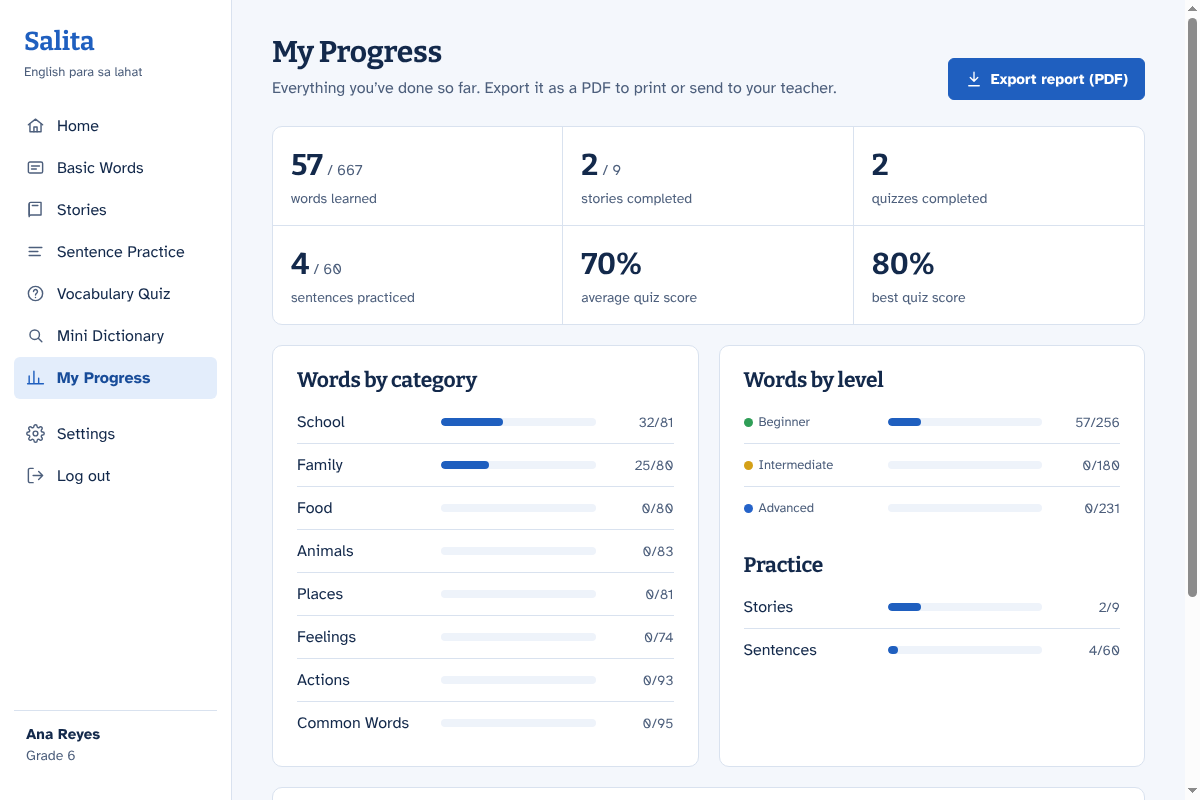
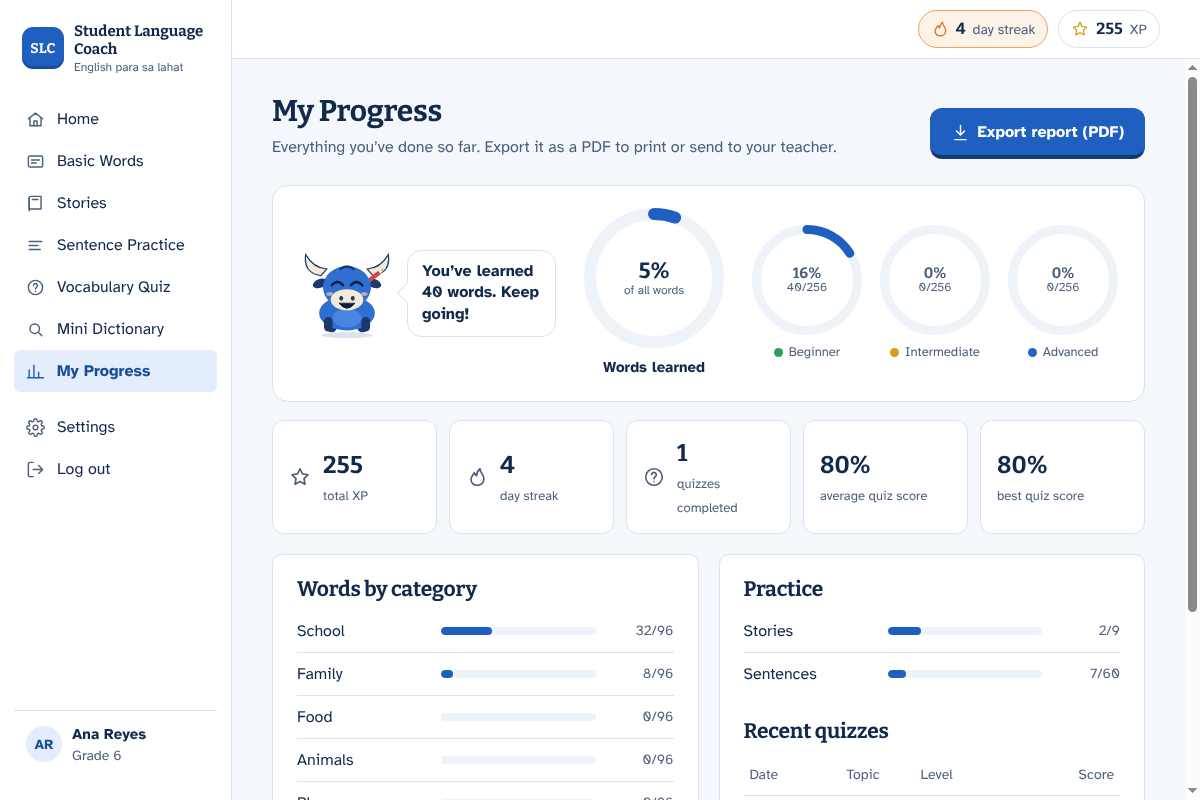
feat: download site with Bao, refreshed screenshots, README for the new name and features

diff --git a/site/style.css b/site/style.css
@@ -50,7 +50,7 @@ code { font-size: .92em; background: var(--surface-2); padding: 1px 6px; border-
 .swatches button[aria-checked="true"] { box-shadow: 0 0 0 2px var(--ink); }
 
 /* Hero */
-.hero { display: grid; grid-template-columns: 1.05fr 1fr; gap: 56px; align-items: center; padding-top: 56px; padding-bottom: 96px; }
+.hero { display: grid; grid-template-columns: 1.05fr 1fr; gap: 56px; align-items: center; padding-top: 56px; padding-bottom: 150px; }
 .hero h1 { font-size: clamp(40px, 5.4vw, 64px); font-weight: 700; max-width: 12ch; }
 .lede { font-size: 20px; color: var(--ink-soft); max-width: 46ch; margin: 22px 0 32px; }
 .cta { display: flex; flex-direction: column; align-items: flex-start; gap: 10px; }
@@ -127,3 +127,83 @@ code { font-size: .92em; background: var(--surface-2); padding: 1px 6px; border-
   .card { width: min(340px, 86%); }
   .feature-list { grid-template-columns: 1fr; }
 }
+
+/* Bao the carabao (same artwork as the app) */
+.bao { display: inline-block; flex: none; position: relative; }
+.bao-svg { width: 100%; height: 100%; overflow: visible; }
+.bao-shadow { fill: var(--line); }
+.bao-torso, .bao-skin { fill: #2f6fd1; }
+.leg-back, .arm, .ear ellipse, .nostril { fill: #1b3a6b; }
+.bao-belly { fill: #4a86df; }
+.horn { fill: #f3ead8; stroke: #1b3a6b; stroke-width: 2.5; }
+.muzzle { fill: #f3ead8; }
+.tuft { fill: none; stroke: #1b3a6b; stroke-width: 5; stroke-linecap: round; }
+.cheek { fill: #f2b7a8; opacity: .75; }
+.sclera { fill: #fff; stroke: #1b3a6b; stroke-width: 2.5; }
+.pupil circle { fill: #0c1f3d; } .pupil .glint { fill: #fff; }
+.brow { fill: none; stroke: #1b3a6b; stroke-width: 3; stroke-linecap: round; opacity: 0; }
+.eyes-happy path { fill: none; stroke: #0c1f3d; stroke-width: 5; stroke-linecap: round; }
+.mouth { fill: none; stroke: #0c1f3d; stroke-width: 3; stroke-linecap: round; }
+.m-grin { fill: #0c1f3d; stroke-width: 2; }
+.pencil rect { fill: #d64545; } .pencil-tip { fill: #f3ead8; } .pencil-lead { fill: #0c1f3d; }
+.x-q { font: 700 30px var(--font-display); fill: #2f6fd1; }
+.x-sweat { fill: #85b7eb; }
+.x-spark path { fill: #f3c74a; }
+
+/* parts that only some moods show */
+.eyes-happy, .m-grin, .m-hmm, .m-oops, .x-q, .x-sweat, .x-spark { opacity: 0; transition: opacity .18s; }
+.eyes-open, .m-smile { transition: opacity .18s; }
+.pupil, .bao-head, .arm, .ear, .bao-body { transition: transform .35s cubic-bezier(.34,1.56,.64,1); transform-box: fill-box; }
+.bao-head { transform-origin: 50% 85%; }
+.arm { transform-origin: 50% 10%; }
+.ear-l { transform-origin: 100% 50%; } .ear-r { transform-origin: 0% 50%; }
+
+/* idle: blink, breathe, ear flick */
+.bao .eye { transform-box: fill-box; transform-origin: center; animation: bao-blink 4.2s infinite; }
+.bao[data-mood="idle"] .bao-body { animation: bao-breathe 3.2s ease-in-out infinite; }
+.bao[data-mood="idle"] .ear-l { animation: bao-flick 5s ease-in-out infinite; }
+
+/* thinking: eyes up and to the side, head tilt, question mark */
+.bao[data-mood="thinking"] .pupil { transform: translate(3px, -3px); }
+.bao[data-mood="thinking"] .bao-head { transform: rotate(-7deg); }
+.bao[data-mood="thinking"] .m-smile { opacity: 0; } .bao[data-mood="thinking"] .m-hmm { opacity: 1; }
+.bao[data-mood="thinking"] .x-q { opacity: 1; animation: bao-float 1.6s ease-in-out infinite; }
+.bao[data-mood="thinking"] .brow-r { opacity: 1; }
+
+/* happy: closed-eye smile, a hop */
+.bao[data-mood="happy"] .eyes-open, .bao[data-mood="celebrate"] .eyes-open { opacity: 0; }
+.bao[data-mood="happy"] .eyes-happy, .bao[data-mood="celebrate"] .eyes-happy { opacity: 1; }
+.bao[data-mood="happy"] .m-smile, .bao[data-mood="celebrate"] .m-smile { opacity: 0; }
+.bao[data-mood="happy"] .m-grin, .bao[data-mood="celebrate"] .m-grin { opacity: 1; }
+.bao[data-mood="happy"] .bao-body { animation: bao-hop .55s cubic-bezier(.3,1.6,.5,1) 1; }
+
+/* oops: look down, ears droop, sweat drop */
+.bao[data-mood="oops"] .pupil { transform: translate(-2px, 3px); }
+.bao[data-mood="oops"] .m-smile { opacity: 0; } .bao[data-mood="oops"] .m-oops { opacity: 1; }
+.bao[data-mood="oops"] .x-sweat { opacity: 1; animation: bao-drip 1.4s ease-in 1; }
+.bao[data-mood="oops"] .ear-l { transform: rotate(-22deg); } .bao[data-mood="oops"] .ear-r { transform: rotate(22deg); }
+.bao[data-mood="oops"] .bao-head { animation: bao-shake .4s 1; }
+.bao[data-mood="oops"] .brow { opacity: 1; }
+
+/* celebrate: front legs up, sparkles, repeated hops */
+.bao[data-mood="celebrate"] .arm-l { transform: translate(-6px, -26px) rotate(150deg); }
+.bao[data-mood="celebrate"] .arm-r { transform: translate(6px, -26px) rotate(-150deg); }
+.bao[data-mood="celebrate"] .x-spark { opacity: 1; animation: bao-twinkle .9s ease-in-out infinite alternate; }
+.bao[data-mood="celebrate"] .bao-body { animation: bao-hop .8s cubic-bezier(.3,1.6,.5,1) 3; }
+
+@keyframes bao-blink { 0%, 94%, 100% { transform: scaleY(1); } 97% { transform: scaleY(.08); } }
+@keyframes bao-breathe { 50% { transform: translateY(-2px) scale(1.01); } }
+@keyframes bao-flick { 0%, 85%, 100% { transform: rotate(0); } 90% { transform: rotate(-16deg); } }
+@keyframes bao-hop { 0%, 100% { transform: translateY(0); } 40% { transform: translateY(-14px); } 70% { transform: translateY(0) scaleY(.96); } }
+@keyframes bao-float { 50% { transform: translateY(-4px); } }
+@keyframes bao-drip { from { transform: translateY(-6px); } to { transform: translateY(4px); } }
+@keyframes bao-shake { 25% { transform: rotate(4deg); } 75% { transform: rotate(-4deg); } }
+@keyframes bao-twinkle { from { transform: scale(.85); opacity: .7; } to { transform: scale(1.1); opacity: 1; } }
+
+
+.hero-bao { position: absolute; left: -30px; bottom: -110px; z-index: 4; display: flex; align-items: flex-end; gap: 4px; }
+.hero-bao .bao { width: 150px; height: 150px; }
+.hero-bao .bao-bubble { margin: 0 0 40px; background: var(--surface); border: 1.5px solid var(--line); border-radius: 14px; padding: 10px 14px; font-weight: 700; font-size: 15px; max-width: 190px; box-shadow: var(--shadow); }
+.bao-shadow { fill: var(--line); }
+@media (prefers-reduced-motion: reduce) { .bao * { animation: none !important; } }
+@media (max-width: 860px) { .hero-bao { position: relative; left: 0; bottom: 0; margin-top: 10px; } .deck { height: auto; min-height: 330px; } }

diff --git a/site/index.html b/site/index.html
@@ -45,6 +45,60 @@
       </div>
 
       <div class="deck" aria-label="Example word cards">
+        <div class="hero-bao">
+          <span class="bao" data-mood="idle" role="img" aria-label="Bao the carabao, the app's mascot"><svg viewBox="0 0 200 200" class="bao-svg" aria-hidden="true">
+  <ellipse class="bao-shadow" cx="100" cy="188" rx="54" ry="6"/>
+  <g class="bao-body">
+    <g class="bao-legs">
+      <rect class="leg-back" x="58" y="146" width="20" height="36" rx="9"/>
+      <rect class="leg-back" x="122" y="146" width="20" height="36" rx="9"/>
+    </g>
+    <ellipse class="bao-torso" cx="100" cy="142" rx="58" ry="36"/>
+    <ellipse class="bao-belly" cx="100" cy="152" rx="30" ry="20"/>
+    <g class="bao-arms">
+      <rect class="arm arm-l" x="52" y="150" width="18" height="30" rx="9"/>
+      <rect class="arm arm-r" x="130" y="150" width="18" height="30" rx="9"/>
+    </g>
+    <g class="bao-head">
+      <path class="horn" d="M46 64 Q8 58 14 20 Q30 48 58 50Z"/>
+      <path class="horn" d="M154 64 Q192 58 186 20 Q170 48 142 50Z"/>
+      <g class="ear ear-l"><ellipse cx="44" cy="80" rx="16" ry="9" transform="rotate(-20 44 80)"/></g>
+      <g class="ear ear-r"><ellipse cx="156" cy="80" rx="16" ry="9" transform="rotate(20 156 80)"/></g>
+      <g class="pencil" transform="rotate(-38 158 64)">
+        <rect x="130" y="60" width="40" height="9" rx="2"/><path class="pencil-tip" d="M170 60 L180 64.5 L170 69Z"/><path class="pencil-lead" d="M177 63 L180 64.5 L177 66Z"/>
+      </g>
+      <ellipse class="bao-skin" cx="100" cy="88" rx="50" ry="44"/>
+      <path class="tuft" d="M86 50 Q100 40 114 50"/>
+      <ellipse class="muzzle" cx="100" cy="114" rx="34" ry="22"/>
+      <ellipse class="nostril" cx="88" cy="111" rx="4" ry="5"/>
+      <ellipse class="nostril" cx="112" cy="111" rx="4" ry="5"/>
+      <ellipse class="cheek" cx="64" cy="102" rx="7" ry="4"/>
+      <ellipse class="cheek" cx="136" cy="102" rx="7" ry="4"/>
+      <g class="eyes-open">
+        <g class="eye"><circle class="sclera" cx="80" cy="80" r="12"/><g class="pupil"><circle cx="81" cy="81" r="7.5"/><circle class="glint" cx="84" cy="77" r="2.5"/></g></g>
+        <g class="eye"><circle class="sclera" cx="120" cy="80" r="12"/><g class="pupil"><circle cx="121" cy="81" r="7.5"/><circle class="glint" cx="124" cy="77" r="2.5"/></g></g>
+        <path class="brow brow-l" d="M68 64 Q80 58 90 64"/>
+        <path class="brow brow-r" d="M110 64 Q120 58 132 64"/>
+      </g>
+      <g class="eyes-happy">
+        <path d="M68 84 Q80 70 92 84"/><path d="M108 84 Q120 70 132 84"/>
+      </g>
+      <path class="mouth m-smile" d="M88 124 Q100 132 112 124"/>
+      <path class="mouth m-grin" d="M84 122 Q100 142 116 122 Z"/>
+      <path class="mouth m-hmm" d="M92 127 L108 125"/>
+      <path class="mouth m-oops" d="M89 130 Q100 122 111 130"/>
+    </g>
+    <text class="x-q" x="168" y="128">?</text>
+    <path class="x-sweat" d="M150 58 q7 11 0 16 q-7 -5 0 -16z"/>
+    <g class="x-spark">
+      <path d="M24 34 l4 9 9 4 -9 4 -4 9 -4 -9 -9 -4 9 -4z"/>
+      <path d="M176 116 l3 7 7 3 -7 3 -3 7 -3 -7 -7 -3 7 -3z"/>
+      <path d="M168 26 l2 5 5 2 -5 2 -2 5 -2 -5 -5 -2 5 -2z"/>
+    </g>
+  </g>
+</svg></span>
+          <p class="bao-bubble">Kumusta! I’m Bao, your study buddy.</p>
+        </div>
         <article class="card c3"><div class="row"><span class="word">grateful</span><span class="lvl advanced">Advanced</span></div>
           <div class="pron">GRAYT-ful</div><div class="fil">nagpapasalamat</div><div class="ex">We are grateful to the barangay volunteers.</div></article>
         <article class="card c2"><div class="row"><span class="word">borrow</span><span class="lvl intermediate">Intermediate</span></div>
@@ -58,13 +112,14 @@
       <h2>Everything a student needs to practice</h2>
       <p class="sub">Eight topics — School, Family, Food, Animals, Places, Feelings, Actions and Common Words — at three levels.</p>
       <dl class="feature-list">
-        <div><dt>Basic Words</dt><dd>Word cards with pronunciation, the Filipino meaning and an example sentence. Press Listen to hear the word.</dd></div>
+        <div><dt>Basic Words</dt><dd>Flip cards with pronunciation, the Filipino meaning and an example sentence. Study one at a time or browse them all.</dd></div>
         <div><dt>Stories</dt><dd>Short stories set in everyday Filipino life, each followed by three questions to check understanding.</dd></div>
-        <div><dt>Sentence Practice</dt><dd>Not just single words. Read simple sentences and pick the missing word, with the Filipino translation one click away.</dd></div>
-        <div><dt>Vocabulary Quiz</dt><dd>Ten questions like “What does <i>happy</i> mean?” with instant feedback and a score at the end.</dd></div>
+        <div><dt>Sentence Practice</dt><dd>Not just single words. Sets of ten simple sentences — pick the missing word and see the Filipino translation.</dd></div>
+        <div><dt>Vocabulary Quiz</dt><dd>Ten questions like “What does <i>happy</i> mean?” Pick, check, and see right away if you got it.</dd></div>
         <div><dt>Daily Word</dt><dd>A new English word on the home screen every day.</dd></div>
         <div><dt>Mini Dictionary</dt><dd>Search hundreds of common words in English or Filipino.</dd></div>
         <div><dt>Progress Tracker</dt><dd>Words learned, stories completed, quizzes taken and practice progress — all in one place.</dd></div>
+        <div><dt>Bao, XP and streaks</dt><dd>Bao the carabao cheers you on. Earn XP for every right answer and keep a daily streak going.</dd></div>
         <div><dt>Printable report</dt><dd>Save a one-page PDF of your progress to print or send to your teacher.</dd></div>
       </dl>
       <div class="levels">

diff --git a/site/config.js b/site/config.js
@@ -1,3 +1,3 @@
 // Change this to your GitHub "username/repository" after you upload the project.
-// Example: window.SALITA_REPO = 'juandelacruz/salita';
-window.SALITA_REPO = 'OWNER/salita';
+// Example: window.SALITA_REPO = 'juandelacruz/student-language-coach';
+window.SALITA_REPO = 'OWNER/student-language-coach';

diff --git a/README.md b/README.md
@@ -1,6 +1,6 @@
-# Salita
+# Student Language Coach
 
-**Learn English words, one card at a time.** Salita is a free, offline Windows app that helps Filipino students in Grades 4–10 learn English vocabulary.
+**Learn English words, one card at a time.** Student Language Coach is a free, offline Windows app that helps Filipino students in Grades 4–10 learn English vocabulary.
 
 - **Basic Words** — 768 word cards in 8 categories (School, Family, Food, Animals, Places, Feelings, Actions, Common Words) × 3 levels (Beginner, Intermediate, Advanced). Each card has the English word, a pronunciation guide, the Filipino meaning and an example sentence. A *Listen* button reads the word aloud.
 - **Stories** — 9 short stories (3 per level) with comprehension questions.
@@ -8,7 +8,10 @@
 - **Vocabulary Quiz** — 10 multiple-choice questions per round, scores saved.
 - **Daily Word**, **Mini Dictionary**, **Progress Tracker**, and a **printable PDF report**.
 - **Accounts on the computer** — username + password, several students per PC. No internet, no database server.
-- **Themes** — light or dark, in blue, red, green, purple or orange.
+- **Bao the carabao** — the mascot cheers students on and reacts to every answer.
+- **XP and daily streak** — +10 XP per correct quiz answer (+20 for a perfect quiz), +30 for finishing a story, +5 per sentence, +2 per word learned. Practising any day keeps the streak going.
+- **Game-like practice** — chunky answer buttons, Check, a feedback bar with the right answer, and a celebration after every quiz, story and sentence set. Keys 1–4 pick an answer, Enter checks.
+- **Themes** — light or dark, in blue, red, green, purple or orange. All animations switch off when Windows' "Show animations" setting is off.
 
 The project has two parts:
 
@@ -23,23 +26,23 @@ The project has two parts:
 
 You need a free GitHub account and Git installed. All of this is free.
 
-1. **Create the repository.** On github.com click **New repository**, name it `salita`, set it to **Public**, and don't add a README. Click **Create repository**.
-2. **Set your repo name in the website.** Open `site/config.js` and change `OWNER/salita` to your username, e.g. `juandelacruz/salita`.
+1. **Create the repository.** On github.com click **New repository**, name it `student-language-coach`, set it to **Public**, and don't add a README. Click **Create repository**.
+2. **Set your repo name in the website.** Open `site/config.js` and change `OWNER/student-language-coach` to your username, e.g. `juandelacruz/student-language-coach`.
 3. **Upload the code.** In a terminal, inside this folder:
    ```bash
    git branch -M main
-   git remote add origin https://github.com/YOUR-USERNAME/salita.git
+   git remote add origin https://github.com/YOUR-USERNAME/student-language-coach.git
    git add -A
    git commit -m "Set my repo name"
    git push -u origin main
    ```
-4. **Turn on the website.** On GitHub: **Settings → Pages → Build and deployment → Source: GitHub Actions**. Then go to the **Actions** tab, open **Deploy download page**, and click **Run workflow**. After a minute your site is live at `https://YOUR-USERNAME.github.io/salita/`.
+4. **Turn on the website.** On GitHub: **Settings → Pages → Build and deployment → Source: GitHub Actions**. Then go to the **Actions** tab, open **Deploy download page**, and click **Run workflow**. After a minute your site is live at `https://YOUR-USERNAME.github.io/student-language-coach/`.
 5. **Build the Windows installer.** Create a version tag and push it:
    ```bash
    git tag v1.0.0
    git push origin v1.0.0
    ```
-   The **Release Windows app** workflow builds `Salita-Setup.exe` on GitHub's Windows computers (about 5–10 minutes) and attaches it to a new Release. The website's **Download for Windows** button always points to the newest release.
+   The **Release Windows app** workflow builds `Student-Language-Coach-Setup.exe` on GitHub's Windows computers (about 5–10 minutes) and attaches it to a new Release. The website's **Download for Windows** button always points to the newest release.
 
 To release an update later: change the code, bump `"version"` in `package.json` (e.g. `1.0.1`), commit, push, then `git tag v1.0.1 && git push origin v1.0.1`.
 
@@ -50,23 +53,23 @@ To release an update later: change the code, bump `"version"` in `package.json` 
 ## Where student data is saved
 
 Everything is saved as small files on the student's computer, in
-`%APPDATA%\Salita\` (paste that into File Explorer's address bar):
+`%APPDATA%\Student Language Coach\` (paste that into File Explorer's address bar):
 
 | File | Contents |
 |---|---|
 | `users.json` | Accounts. Passwords are scrambled (scrypt hash), never stored as typed. |
-| `progress\<username>.json` | That student's learned words, stories, sentences, quiz scores and theme. |
+| `progress\<username>.json` | That student's learned words, stories, sentences, quiz scores, XP, active days (for the streak) and theme. |
 | `prefs.json` | Last used theme and username, for the login screen. |
 
-The folder is created automatically the first time Salita runs on a new computer, so there's nothing to set up. Uninstalling Salita keeps this folder, so progress isn't lost.
+The folder is created automatically the first time Student Language Coach runs on a new computer, so there's nothing to set up. Uninstalling Student Language Coach keeps this folder, so progress isn't lost.
 
 **Forgot a password?** There's no reset (there's no internet account to reset). To remove that account:
 
-1. Close Salita and make a copy of `users.json` first, just in case.
+1. Close Student Language Coach and make a copy of `users.json` first, just in case.
 2. Open `users.json` in Notepad. Delete that student's whole `{ … }` block, including the comma before or after it, so the commas between the remaining blocks stay correct.
 3. Delete their file in `progress\`. They can now create the account again.
 
-If the file gets damaged by mistake, Salita won't crash. It renames the damaged file to `users.json.<number>.bak` and starts with no accounts. To undo, close Salita, delete the new `users.json`, and rename your copy (or the `.bak` file, once fixed) back to `users.json`.
+If the file gets damaged by mistake, Student Language Coach won't crash. It renames the damaged file to `users.json.<number>.bak` and starts with no accounts. To undo, close Student Language Coach, delete the new `users.json`, and rename your copy (or the `.bak` file, once fixed) back to `users.json`.
 
 **Moving to a different computer?** Progress stays on the original PC. Export the PDF report from **My Progress** before switching.
 
